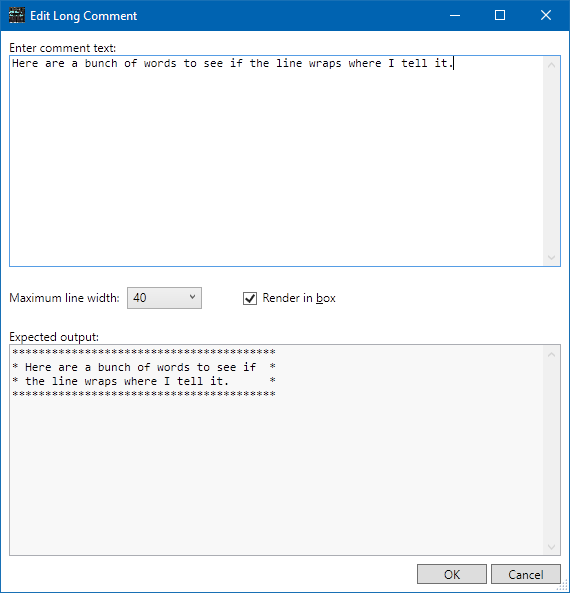
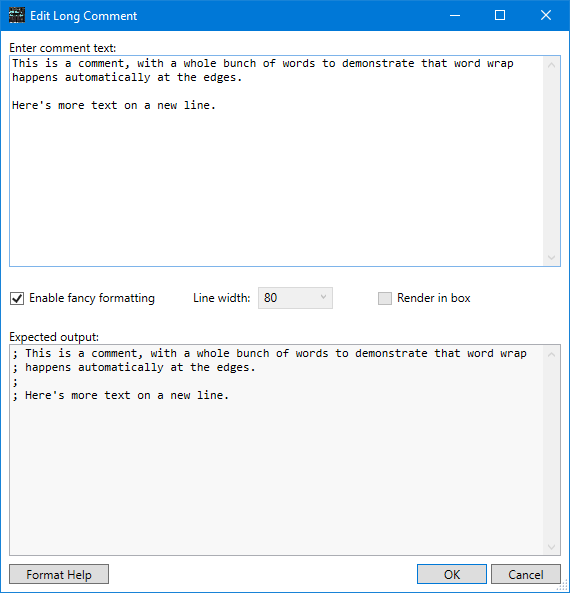
Fancy comments, part 5 (of 5)
Added a "format help" button to the long comment edit window.  This
brings up a quick summary of the format tags in a modal dialog.

Updated documentation and tutorial.

diff --git a/docs/sgmanual/editors.html b/docs/sgmanual/editors.html
@@ -361,24 +361,18 @@ editor.</p>
 
 
 <h2 id="long-comment">Edit Long Comment</h2>
+
 <p>Long comments can be arbitrarily long and span multiple lines.  They
 will be word-wrapped at a line width of your choosing.  They're always
 drawn with a fixed-width font, so you can create ASCII-art diagrams.
 Comment delimiters are added automatically at the start of each line.</p>
-<p>For a true retro look you can "box" the comment with asterisks.  You
-can create a full-width row of asterisks by putting a '*' on a line by
-itself.  (Assembly source generators are allowed to use a character
-other than '*' for the output, e.g. they might use a full set of
-box outline characters, though that's somewhat against the spirit of
-the thing.  Regardless, a solo '*' results in a line.)</p>
+
 <p>The bottom window will update automatically as you type, showing what
 the output is expected to look like.  The actual assembler source output
 will depend on features of the target assembler, such as comment
 delimiter choices and maximum line length limitations.  For example,
-Merlin allows a leading '*' to indicate a comment, while cc65 does not,
-so cc65 code uses ";*' instead.  Because the length limitation affects
-the length of the line, not just the comment text, an asterisk-boxed
-comment will have one fewer character per line in cc65 output.</p>
+Merlin allows a leading '*' to indicate a full-line comment, while most
+others use ";'.</p>
 
 <p>Clear the text field to delete the comment.</p>
 <p>You can use <kbd class="key">Ctrl+Enter</kbd> as a keyboard shortcut
@@ -387,6 +381,88 @@ for <samp>OK</samp>.</p>
 <p>The long comment at the very top of the project is special, as it's
 not associated with a file offset.  If you delete it, you can get it
 back by using <samp>Edit &gt; Edit Header Comment</samp>.</p>
+
+<p>Recent versions of SourceGen support "fancy" formatting tags, which
+are embedded in the comment like BBCode or HTML.  You can choose to
+use "classic" or "fancy" formatting by clicking the
+<samp>Enable Fancy Formatting</samp> checkbox.</p>
+
+<h3>Classic Formatting</h3>
+
+<p>If fancy formatting is disabled, you can set the line width for the
+comment block from the choices in the pop-up menu.  If you want to
+wrap the comment in a box of asterisks, check the
+<samp>Render In Box</samp> checkbox.</p>
+<p>For boxed text, most assemblers don't accept '*' as a full-line comment
+delimiter, so the actual delimiter will be output at the start of each
+line.  This reduces the width of the box by 1 for those assemblers and
+the on-screen display.</p>
+<p>Within a box, putting '*' on a line by itself causes a full line of
+asterisks to be output.</p>
+
+<h3>Fancy Formatting</h3>
+
+<p>If fancy formatting is enabled, the width and box controls are disabled
+in the dialog.  The features are available with embedded formatting
+commands.</p>
+<p>The supported tags are:</p>
+<ul>
+  <li><code>[width=nn]</code>: sets the line width to the specified value.
+    The minimum width is 8, maximum is 128.  The special value '*' sets
+    the width to the default (80).  This is the total width of the output,
+    so the actual text width will be slightly smaller because of comment
+    delimiters and box edges.</li>
+  <li><code>[br]</code>: breaks up the output with a totally blank line.
+    The line won't even have a comment delimiter.</li>
+  <li><code>[box]...[/box]</code>: formats the text inside the tags in
+    a box.  The box frame will be composed of comment delimiters (usually
+    '<code>;</code>' or '<code>*</code>').</li>
+  <li><code>[box char='#']</code>: alternate form of <code>[box]</code>
+    that allows the frame character to be specified.  Because lines will
+    need to be prefixed with a comment delimiter, the box width is
+    reduced by one.  If the specified character happens to match the
+    comment delimiter, the comment delimiter will be omitted, but the
+    width will still be reduced so that the inside of the box is the same
+    width regardless of assembler configuration.</li>
+  <li><code>[hr]</code>: outputs a horizontal line of characters, using
+    the comment char.</li>
+  <li><code>[hr char='-']</code>: outputs a horizontal line of characters,
+    using the specified char.</li>
+  <li><code>[url]https://example.com/[/url]</code>: outputs a URL.</li>
+  <li><code>[url=https://example.com/]link text[/url]</code>: outputs
+    the link text followed by the URL.</li>
+</ul>
+
+<p>The <code>width</code> and <code>br</code> tags are not allowed in
+boxes, but the <code>hr</code> and <code>url</code> tags are.</p>
+
+<p>For example, the text:</p>
+<pre>
+[width=20][box]
+Hello, world!
+[hr char='-']
+The quick brown fox jumps over the lazy dog.
+[/box]
+</pre>
+<p>will be formatted as:</p>
+<pre>
+********************
+* Hello, world!    *
+*------------------*
+* The quick brown  *
+* fox jumps over   *
+* the lazy dog.    *
+********************
+</pre>
+
+<p>Incomplete or malformed format tags will be output as written.  To
+avoid confusing the parser, the left bracket can be escaped with a
+backslash, e.g. "<code>\[br]</code>" will appear in the output as
+"<code>[br]</code>".</p>
+
+<p>A quick reference for the format tags can be accessed with the
+<samp>Format Help</samp> button.</p>
+
 
 <h2 id="data-bank">Edit Data Bank (65816 only)</h2>
 

diff --git a/SourceGen/WpfGui/EditLongComment.xaml b/SourceGen/WpfGui/EditLongComment.xaml
@@ -82,9 +82,10 @@ limitations under the License.
                  FontFamily="{StaticResource GeneralMonoFont}" VerticalScrollBarVisibility="Visible"
                  IsReadOnly="True" Background="#f8f8f8"/>
 
-        <StackPanel Grid.Row="5" Orientation="Horizontal" HorizontalAlignment="Right" Margin="0,8,0,0">
-            <Button Content="OK" IsDefault="True" Width="70" Click="OkButton_Click"/>
-            <Button Content="Cancel" IsCancel="True" Width="70" Margin="4,0,0,0"/>
-        </StackPanel>
+        <DockPanel Grid.Row="5" LastChildFill="False" Margin="0,8,0,0">
+            <Button Content="Format Help" DockPanel.Dock="Left" Width="100" Click="FormatHelp_Click"/>
+            <Button Content="Cancel" DockPanel.Dock="Right" IsCancel="True" Width="70" Margin="4,0,0,0"/>
+            <Button Content="OK" DockPanel.Dock="Right" IsDefault="True" Width="70" Click="OkButton_Click"/>
+        </DockPanel>
     </Grid>
 </Window>

diff --git a/docs/sgtutorial/making-edits.html b/docs/sgtutorial/making-edits.html
@@ -111,8 +111,7 @@
     <div class="grid-item-text">
         <p>Double-click the comment to open the editor.  Type some words into the
         upper window, and note that a formatted version appears in the bottom
-        window.  Experiment with the maximum line width and "render in box"
-        settings to see what they do.  You can hit Enter to create line breaks,
+        window.  You can hit Enter to create line breaks,
         or let SourceGen wrap lines for you.  When you're done, click <samp>OK</samp>.
         (Or hit <kbd class="key">Ctrl+Enter</kbd>.)</p>
         <p>When the dialog closes, you'll see your new comment in place at the

diff --git a/SourceGen/WpfGui/EditLongComment.xaml.cs b/SourceGen/WpfGui/EditLongComment.xaml.cs
@@ -197,5 +197,27 @@ namespace SourceGen.WpfGui {
             return new MultiLineComment(UserInput, IsFancyEnabled, RenderInBox,
                 (int)maxWidthComboBox.SelectedItem);
         }
+
+        private const string HELP_TEXT =
+            "Fancy formatting tags:\r\n" +
+            "  [width=nn] sets the width to the specified value; '*' sets to default (80).\r\n" +
+            "  [br] breaks up the output with a totally blank line.\r\n" +
+            "  [box]...[/box] puts text in a box, using the comment char for the frame.\r\n" +
+            "  [box char='#']...[/box] puts text in a box, using the specified char.\r\n" +
+            "  [hr] outputs a horizontal line of characters, using the comment char.\r\n" +
+            "  [hr char='-'] outputs a horizontal rule, using the specified char.\r\n" +
+            "  [url]https://example.com/[/url] outputs a URL.\r\n" +
+            "  [url=https://example.com/]link text[/url] outputs a URL with separate link text.\r\n" +
+            "\r\n" +
+            "[width=nn] and [br] are not allowed in boxes, but [hr] and [url] are.\r\n" +
+            "\r\n" +
+            "If fancy mode is disabled, the Line Width and Render In Box controls are enabled,\r\n" +
+            "and will be used to format the text.  Formatting tags are ignored.\r\n";
+
+        private void FormatHelp_Click(object sender, RoutedEventArgs e) {
+            Tools.WpfGui.ShowText dialog = new Tools.WpfGui.ShowText(this, HELP_TEXT);
+            dialog.Title = "Format Help";
+            dialog.ShowDialog();
+        }
     }
 }

diff --git a/SourceGen/Tools/WpfGui/ShowText.xaml.cs b/SourceGen/Tools/WpfGui/ShowText.xaml.cs
@@ -66,6 +66,7 @@ namespace SourceGen.Tools.WpfGui {
         private void Window_KeyEventHandler(object sender, KeyEventArgs e) {
             if (e.Key == Key.Escape) {
                 Close();
+                e.Handled = true;
             }
         }
     }
